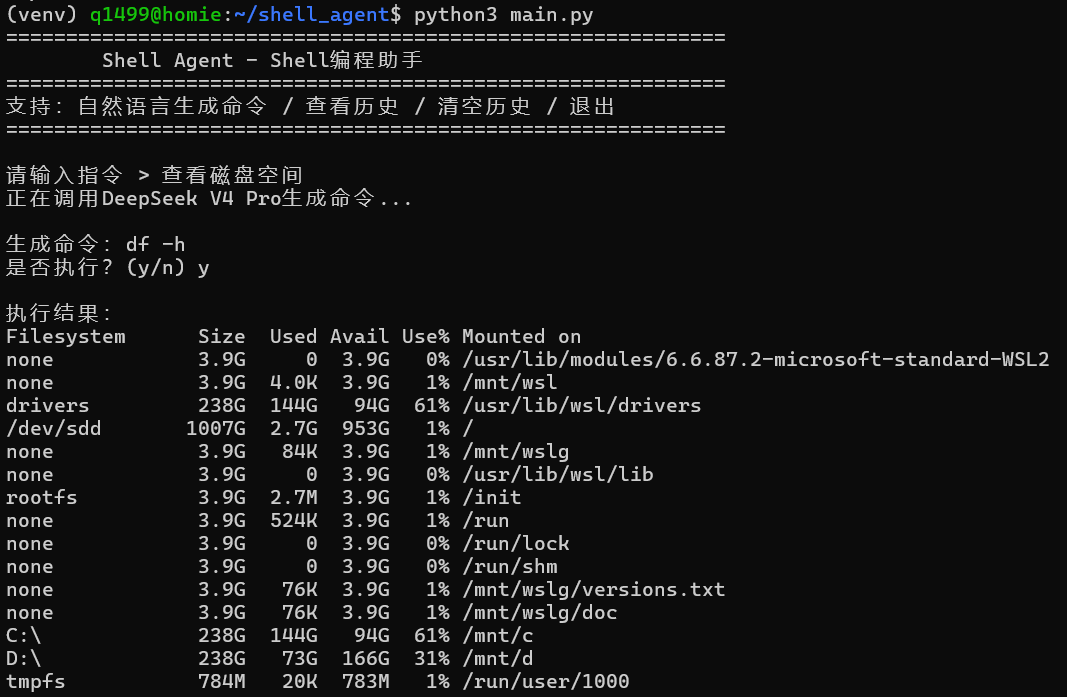
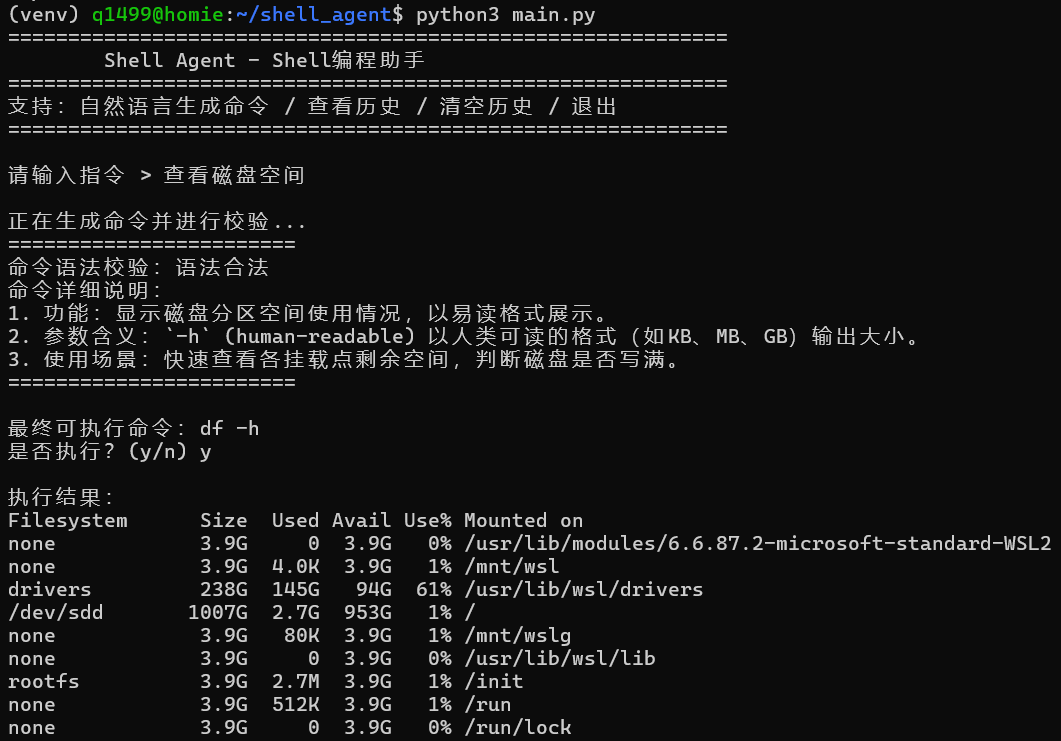
新增语法校验解释说明

Changed region(s): [[0.0, 0.0, 0.9953, 0.9943], [0.6843, 0.4218, 0.8709, 0.4821]]

diff --git a/shell_agent.py b/shell_agent.py
@@ -4,6 +4,7 @@ from utils.code_executor import execute_shell_command
 from utils.session_dir import create_session_dir
 from prompts import SYSTEM_PROMPT, DIAGNOSE_PROMPT
 from lib.utils import log_info, save_history, show_history, clear_history
+from lib.syntax_checker import check_bash_syntax  # 语法校验
 
 import os
 
@@ -11,11 +12,9 @@ class ShellAgent:
     def __init__(self):
         self.llm = LLMHelper()
         self.session_dir = create_session_dir()
-        # 创建会话日志文件
         self.session_log = os.path.join(self.session_dir, "session.log")
 
     def log_to_session(self, content):
-        """写入会话日志"""
         with open(self.session_log, "a", encoding="utf-8") as f:
             f.write(content + "\n")
 
@@ -41,99 +40,121 @@ class ShellAgent:
             self.auto_diagnose(query)
             return
 
+        # ==============================
         # 普通命令生成
+        # ==============================
+        print("\n正在生成命令并进行校验...")
         messages = [
             {"role": "system", "content": SYSTEM_PROMPT},
             {"role": "user", "content": query}
         ]
-        print("正在调用DeepSeek V4 Pro生成命令...")
-        self.log_to_session("调用大模型生成命令...")
-        response = self.llm.chat(messages)
-        cmd = extract_shell_command(response)
 
-        if not cmd:
-            print("未能解析到有效命令")
-            self.log_to_session("错误：未能解析到有效命令")
+        try:
+            response = self.llm.chat(messages)
+        except:
+            print("大模型调用失败")
             return
 
-        print(f"\n生成命令：{cmd}")
-        self.log_to_session(f"生成命令：{cmd}")
+        cmd = extract_shell_command(response)
+        if not cmd:
+            print("未能解析到有效命令")
+            return
+
+        # 命令语法校验
+        is_valid, msg = check_bash_syntax(cmd)
+        print("========================")
+        print(f"命令语法校验：{msg}")
+        if not is_valid:
+            print("命令非法，已禁止执行")
+            self.log_to_session(f"命令非法：{msg}")
+            return
+
+
+        # 自动生成中文解释
+        print("命令详细说明：")
+        explain = self.get_command_explanation(cmd)
+        print(explain)
+        print("========================")
+        print(f"\n最终可执行命令：{cmd}")
+        self.log_to_session(f"合法命令：{cmd}\n说明：{explain}")
+
         confirm = input("是否执行？(y/n) ").lower()
         if confirm != "y":
             print("已取消执行")
-            self.log_to_session("用户取消执行")
             return
 
+        # 执行
         result = execute_shell_command(cmd)
         if result["success"]:
             print("\n执行结果：")
             print(result["stdout"])
-            self.log_to_session(f"执行成功，结果：\n{result['stdout']}")
             save_history(query, cmd)
+            self.log_to_session("执行成功")
         else:
             print(f"\n执行失败：{result.get('stderr')}")
-            self.log_to_session(f"执行失败：{result.get('stderr')}")
+            self.log_to_session("执行失败")
 
+    # 获取命令中文解释
+    def get_command_explanation(self, cmd):
+        try:
+            messages = [
+                {"role": "system", "content": """
+你是一个Linux命令解释专家，用简洁中文解释命令，必须包含3点：
+1. 功能
+2. 参数含义
+3. 使用场景
+只返回解释，不要多余内容。
+"""},
+                {"role": "user", "content": f"解释命令：{cmd}"}
+            ]
+            return self.llm.chat(messages)
+        except:
+            return "无法获取解释（API异常）"
+
+
+    # 自动诊断引擎
     def auto_diagnose(self, query):
         print("\n→ 正在自动执行诊断...")
-        self.log_to_session(f"开始自动诊断：{query}")
-
-        # 1. 调用大模型生成诊断指令
-        messages = [
-            {"role": "system", "content": DIAGNOSE_PROMPT},
-            {"role": "user", "content": f"请诊断：{query}"}
-        ]
+        self.log_to_session(f"诊断：{query}")
 
         try:
-            llm_response = self.llm.chat(messages)
-            self.log_to_session(f"大模型返回：{llm_response}")
-        except Exception as e:
-            print(f"诊断失败：调用大模型出错 - {e}")
-            self.log_to_session(f"诊断失败：{e}")
+            messages = [
+                {"role": "system", "content": DIAGNOSE_PROMPT},
+                {"role": "user", "content": f"请诊断：{query}"}
+            ]
+            res = self.llm.chat(messages)
+            data = extract_json_from_llm(res)
+        except:
+            print("诊断超时，使用本地备用方案")
             self.fallback_diagnose(query)
             return
 
-        # 2. 解析 JSON
-        diagnose_data = extract_json_from_llm(llm_response)
-        if not diagnose_data:
-            print("诊断失败：无法解析大模型返回的格式")
-            self.log_to_session("解析大模型返回格式失败")
+        if not data:
+            print("解析失败")
             self.fallback_diagnose(query)
             return
 
-        title = diagnose_data.get("title", "系统诊断")
-        commands = diagnose_data.get("commands", [])
-        analysis = diagnose_data.get("analysis", "分析完成")
+        title = data.get("title", "诊断")
+        commands = data.get("commands", [])
+        analysis = data.get("analysis", "")
 
-        # 3. 执行命令并记录结果
-        results = {}
         for cmd in commands:
             print(f"→ 执行：{cmd}")
-            res = execute_shell_command(cmd)
-            results[cmd] = res["stdout"]
-            self.log_to_session(f"执行命令：{cmd}\n结果：{res['stdout']}")
+            ret = execute_shell_command(cmd)
+            if ret["success"]:
+                print(ret["stdout"])
 
-        # 4. 输出并写入诊断报告
-        report = f"""
-============================================
-【{title}】
-{analysis}
-============================================
-"""
-        print(report)
-        self.log_to_session(report)
+        print("\n========================")
+        print(f"【{title}】")
+        print(analysis)
+        print("========================\n")
+        self.log_to_session(f"诊断完成：{title}")
 
     def fallback_diagnose(self, query):
-        if "磁盘" in query or "空间" in query:
-            print("\n===== 备用磁盘诊断 =====")
-            cmds = ["df -h", "du -sh /* 2>/dev/null | sort -rh | head -5"]
-            for cmd in cmds:
-                print(f"→ 执行：{cmd}")
-                res = execute_shell_command(cmd)["stdout"]
-                print(res)
-                self.log_to_session(f"备用诊断命令：{cmd}\n结果：{res}")
-            print("===== 诊断完成 =====")
-            self.log_to_session("备用磁盘诊断完成")
-        else:
-            print("暂时无法自动诊断，请直接输入具体命令生成需求")
-            self.log_to_session("无对应备用诊断方案")
+        if "磁盘" in query:
+            print("\n本地磁盘诊断：")
+            os.system("df -h")
+            print("\n占用最大目录：")
+            os.system("du -sh /* 2>/dev/null | sort -rh | head -5")
+
+# EOF
